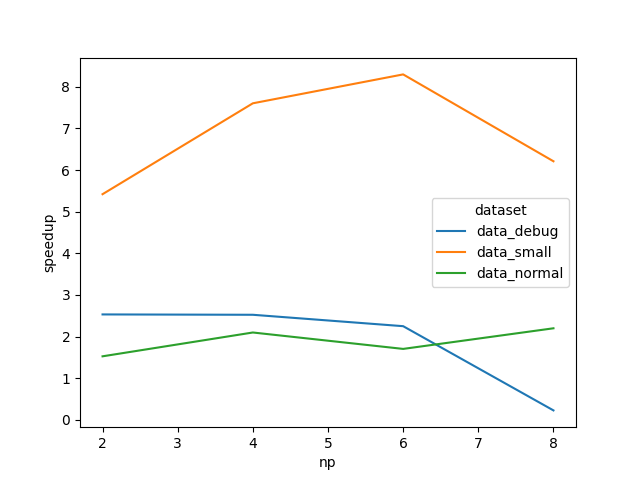
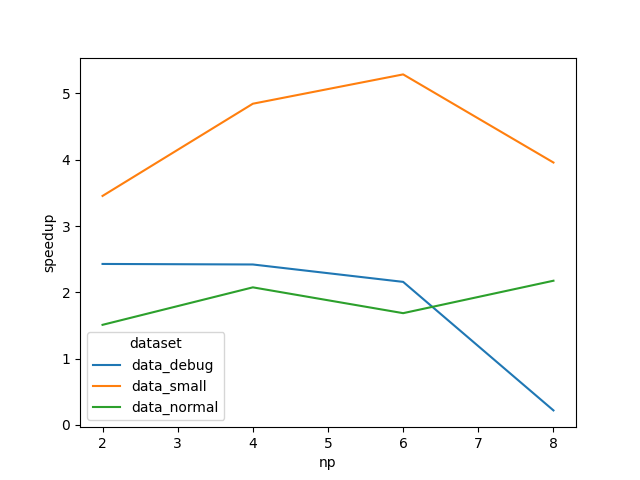
Using minimum local exec. time as reference for speedup

diff --git a/results/benchmark_np.py b/results/benchmark_np.py
@@ -81,9 +81,9 @@ def main():
     dataframe['speedup'] = [0.0] * len(dataframe)
     for dataset_name in dataset_names:
         dataset_local = dataframe[(dataframe['dataset'] == dataset_name) & (dataframe['np'] == 1)]
-        mean_local_exec_time = dataset_local['exec_time'].mean()
+        min_local_exec_time = dataset_local['exec_time'].min()
         dataset_copy = dataframe[dataframe['dataset'] == dataset_name].copy()
-        dataset_copy['speedup'] = (dataset_copy['exec_time'] / mean_local_exec_time)**-1
+        dataset_copy['speedup'] = (dataset_copy['exec_time'] / min_local_exec_time)**-1
         dataframe[dataframe['dataset'] == dataset_name] = dataset_copy
 
     dataframe_wo_local = dataframe[dataframe['np'] != 1]
